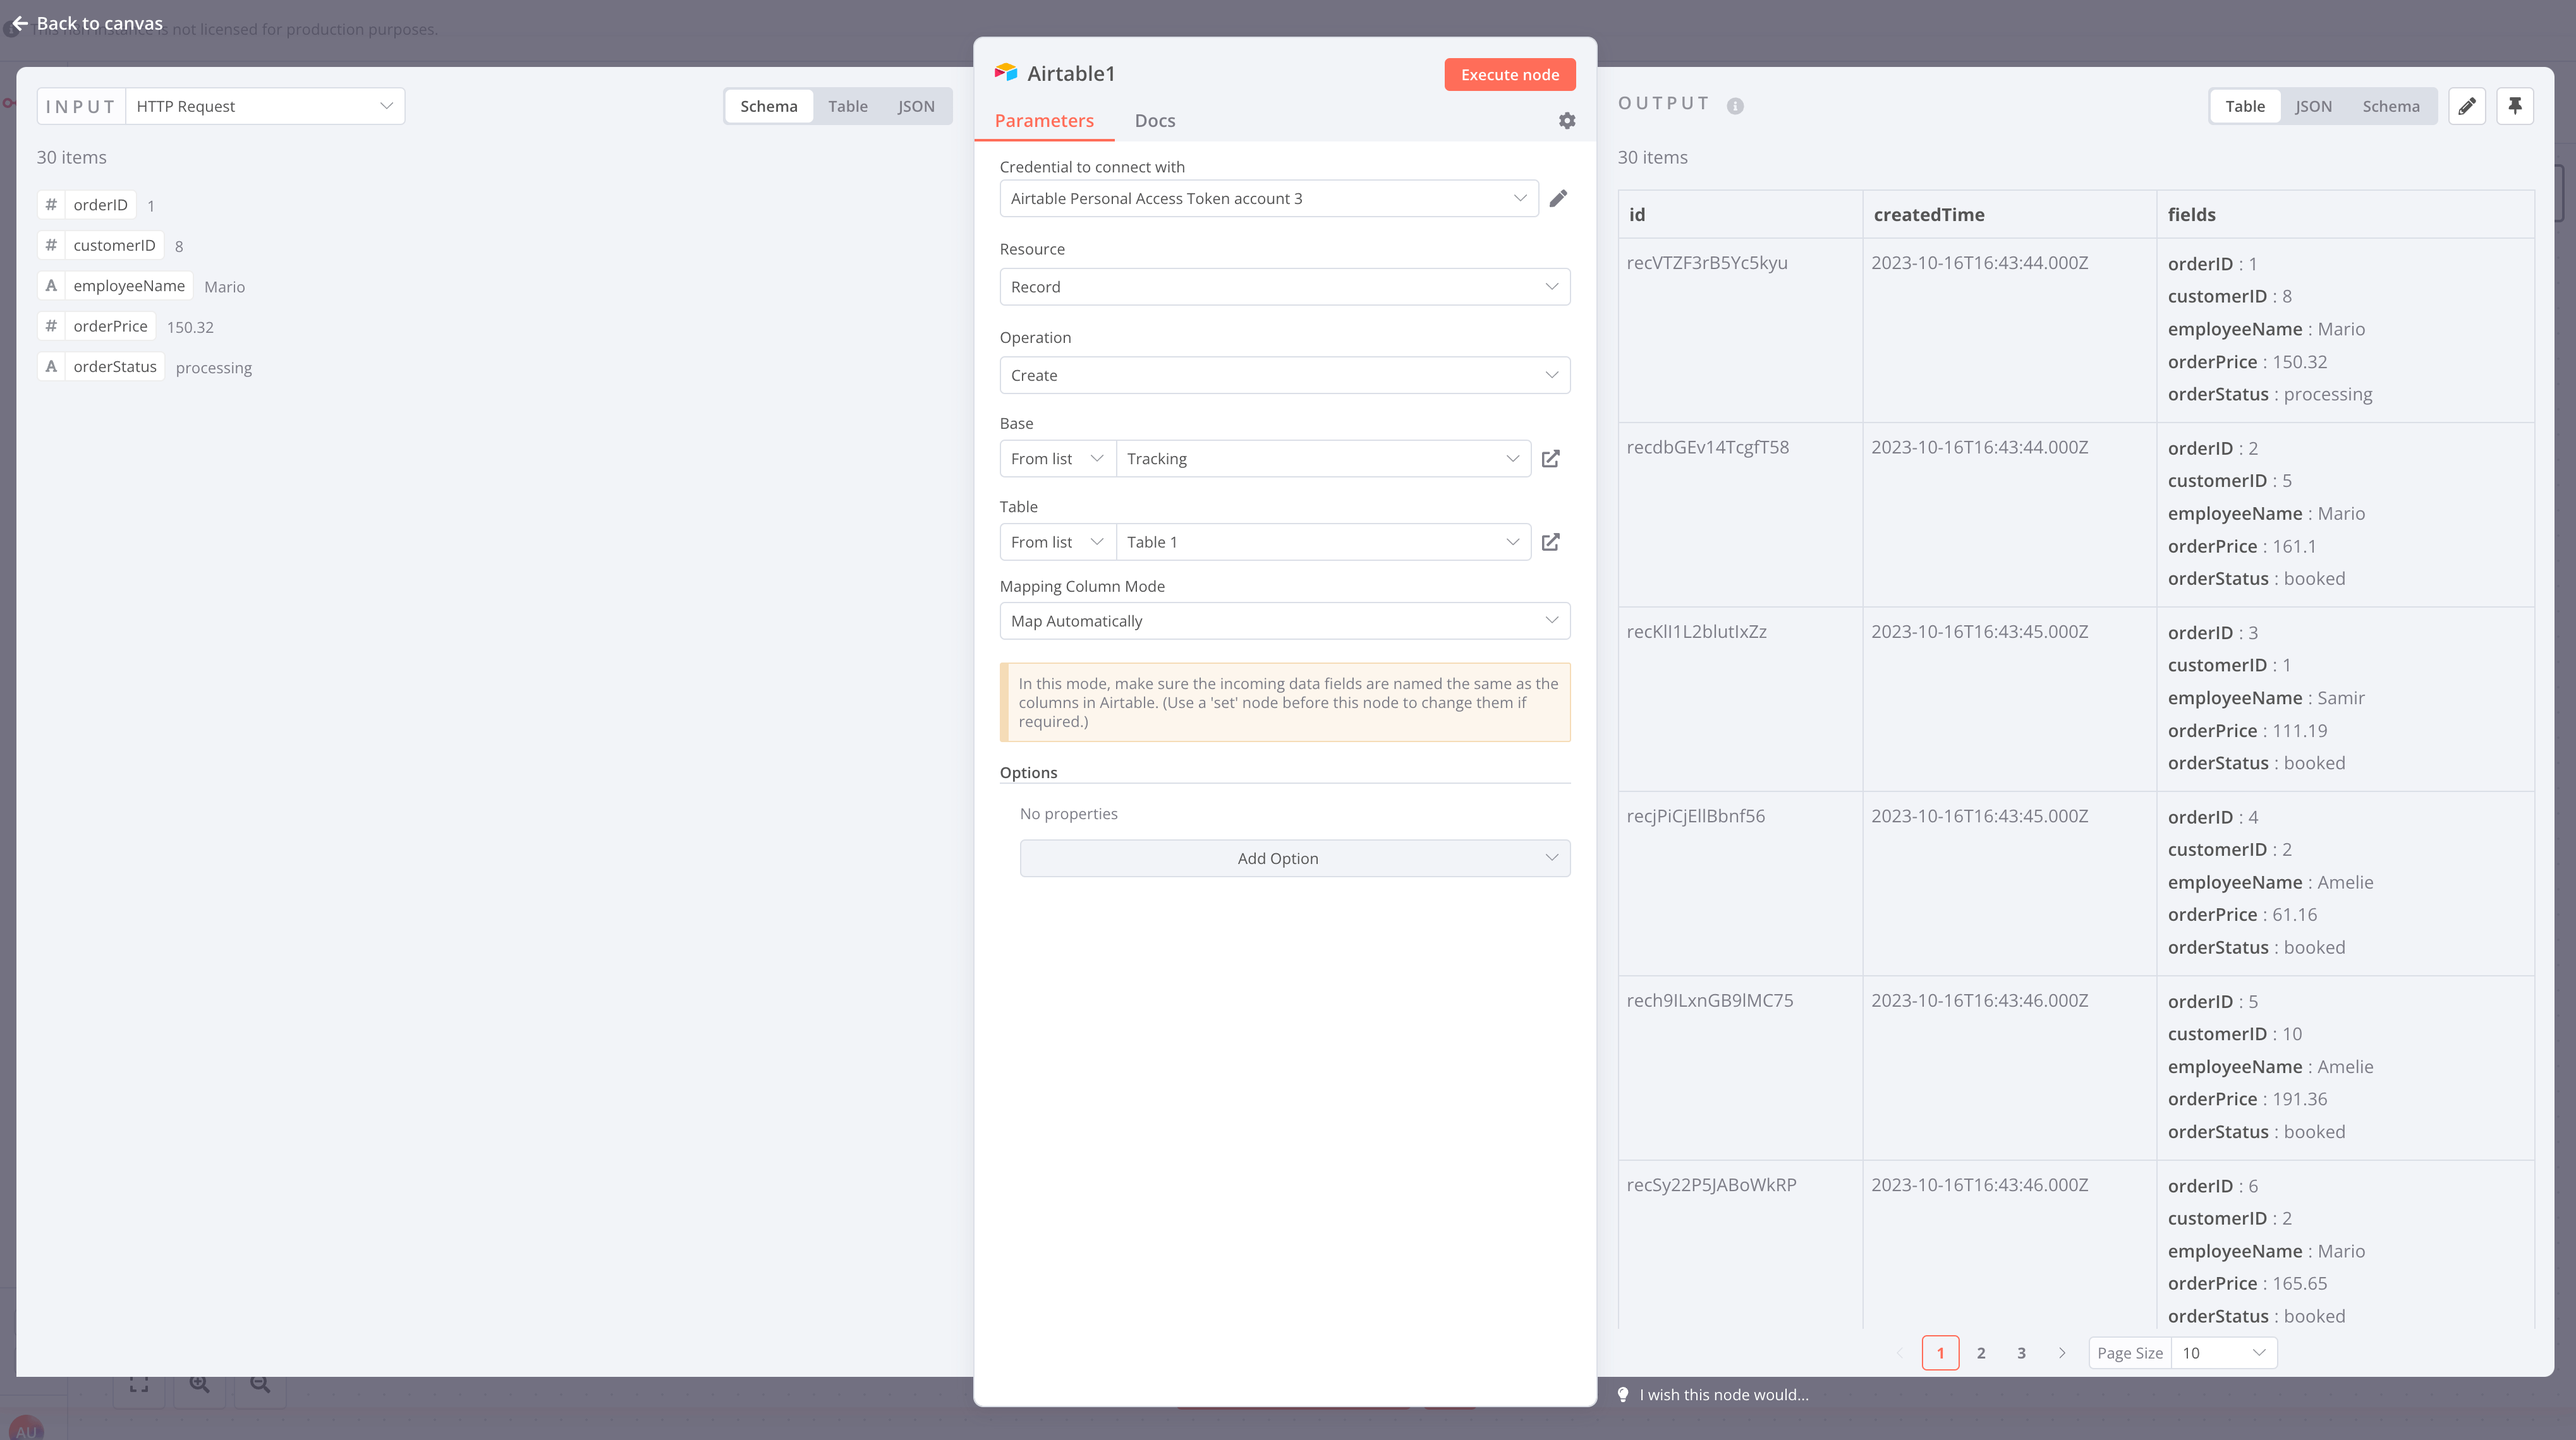
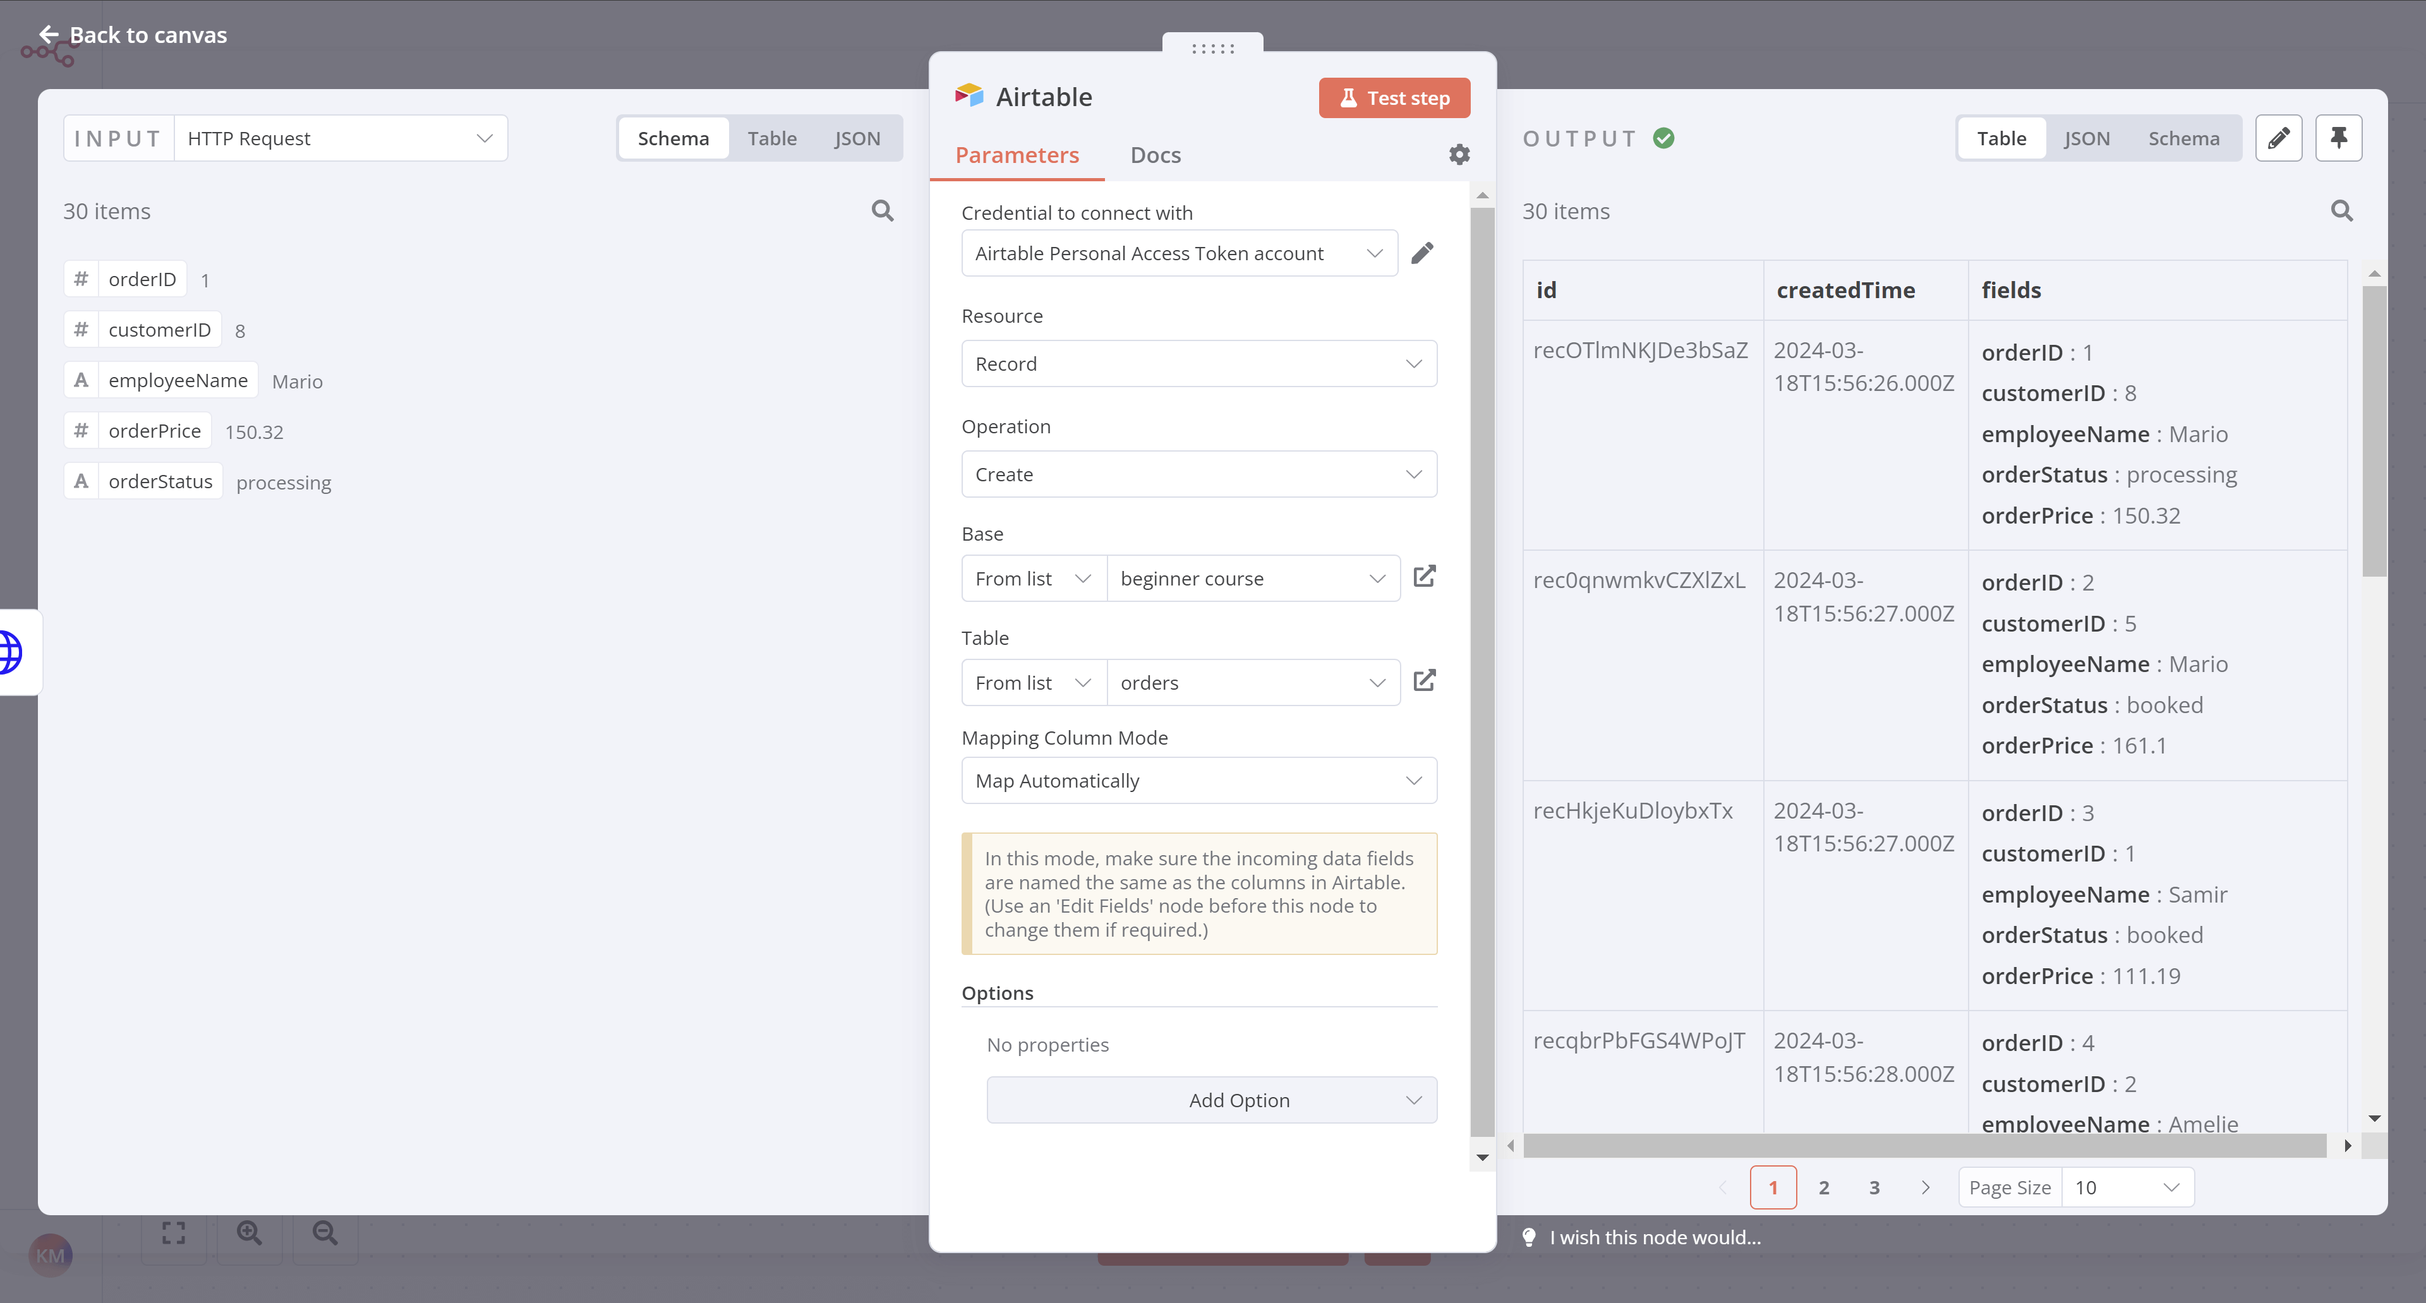
Update 5.2 with new screenshots and wording tweaks

diff --git a/docs/courses/level-one/chapter-5/chapter-5.2.md b/docs/courses/level-one/chapter-5/chapter-5.2.md
@@ -4,13 +4,13 @@ contentType: tutorial
 
 # 2. Inserting data into Airtable
 
-In this step of the workflow, you will learn how to insert the data received using the HTTP Request node into Airtable using the [**Airtable node**](/integrations/builtin/app-nodes/n8n-nodes-base.airtable/){:target="_blank"}.
+In this step of the workflow, you will learn how to insert the data received from the HTTP Request node into Airtable using the [**Airtable node**](/integrations/builtin/app-nodes/n8n-nodes-base.airtable/).
 
 /// note | Spreadsheet nodes
-You can replace the **Airtable node** with another spreadsheet app/service. For example, n8n also has a node for [**Google Sheets**](/integrations/builtin/app-nodes/n8n-nodes-base.googlesheets/){:target="_blank"}.
+You can replace the **Airtable node** with another spreadsheet app/service. For example, n8n also has a node for [**Google Sheets**](/integrations/builtin/app-nodes/n8n-nodes-base.googlesheets/).
 ///
 
-At this point, your workflow should look like this:
+After this step, your workflow should look like this:
 
 <figure><img src="/_images/courses/level-one/chapter-five/l1-c5-2-workflow-with-airtable-node.png" alt="Workflow with the Airtable node" style="width:100%"><figcaption align = "center"><i>Workflow with the Airtable node</i></figcaption></figure>
 
@@ -33,12 +33,22 @@ Now your table should look like this:
 
 <figure><img src="/_images/courses/level-one/chapter-five/l1-c5-2-orders-table.png" alt="Orders table in Airtable" style="width:100%"><figcaption align = "center"><i>Orders table in Airtable</i></figcaption></figure>
 
-Now that the table is ready, let's return to the workflow in the Editor UI.
+Now that the table is ready, let's return to the workflow in the n8n Editor UI.
 
 ## Add an Airtable node to the HTTP Request node
 
 Add an **Airtable node** connected to the HTTP Request node.
 
+///note | Remember
+You can add a ndoe connected to an existing node by selecting the **+** icon next to the existing node.
+///
+
+In the node panel:
+
+1. Search for Airtable.
+2. Select **Create a record** from the **Record Actions** search results.
+
+This will add the Airtable node to your canvas and open the node details window.
 
 In the **Airtable node** window, configure the following parameters:
 
@@ -55,11 +65,13 @@ Adding credentials for Airtable is similar to the HTTP Request node you configur
 
 ## Test the Airtable node
 
-Now execute the **Airtable node** and you should get the following result:
+Once you've finished configuring the Airtable node, execute it by selecting **Test step**.
+
+Your results should look like this:
 
 <figure><img src="/_images/courses/level-one/chapter-five/l1-c5-2-airtable-node.png" alt="Airtable node results" style="width:100%"><figcaption align = "center"><i>Airtable node results</i></figcaption></figure>
 
-All 30 data records will now appear in the orders table:
+All 30 data records will now appear in the orders table in Airtable:
 
 <figure><img src="/_images/courses/level-one/chapter-five/l1-c5-2-airtable-records.png" alt="Imported records in the orders table" style="width:100%"><figcaption align = "center"><i>Imported records in the orders table</i></figcaption></figure>
 
